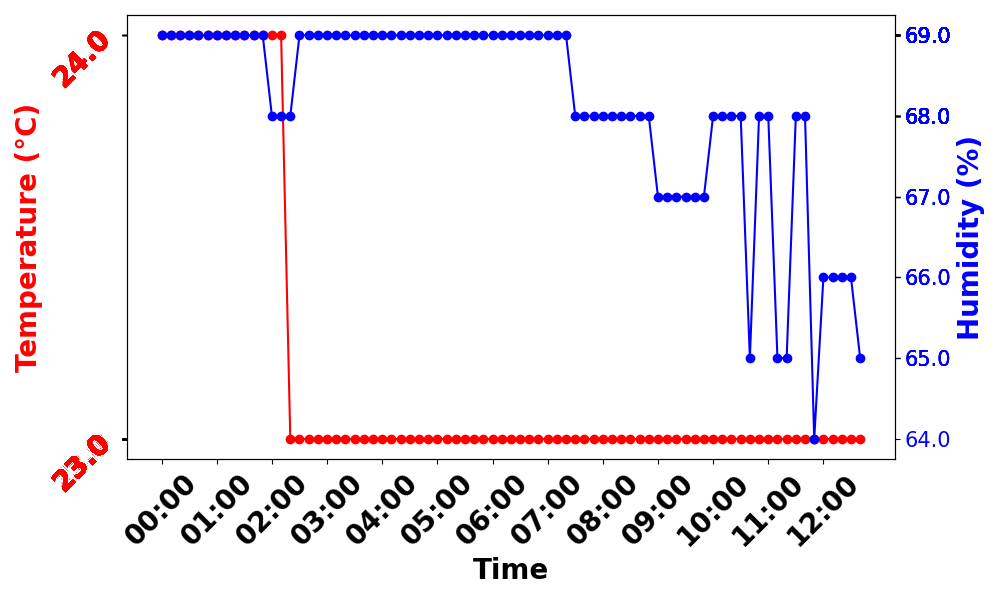
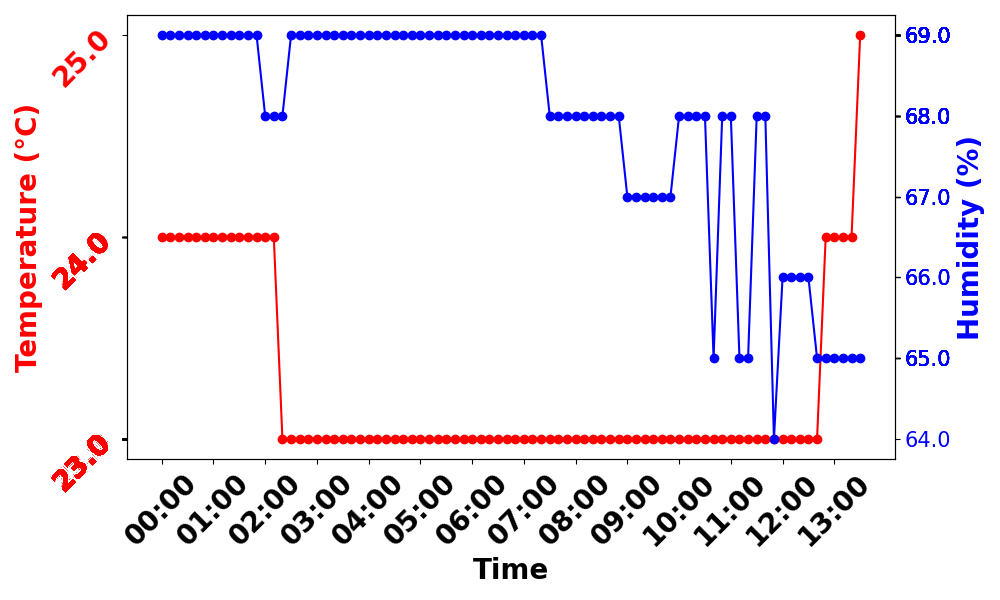
.

diff --git a/final_player/code/dashboard.py b/final_player/code/dashboard.py
@@ -275,6 +275,10 @@ class DashBoard:
                         self.have_to_vent = 'on'
                         self.timer.activate()
 
+            # if self.player.pos_layer == 'buan_api':
+            #     if self.index >= 2:
+            #         self.index = 2
+
             if self.index == 1 or self.index == 2:
                 if key_1 and self.date_index > -len(self.options_dates):
                     self.date_index += -1
@@ -449,7 +453,7 @@ class DashBoard:
         self.data_208_height = 0
 
         for item in self.options_208_data:
-            text_surf = self.font.render(str(item), False, 'black')
+            text_surf = self.font.render(f'{item}', False, 'black')
             self.data_208_surf.append(text_surf)
             self.data_208_height = text_surf.get_height() + 2*self.space
         self.total_height += self.data_height
@@ -514,23 +518,23 @@ class DashBoard:
 
             elif self.index == 1:
                 # 온습도 그래프 표시
-
-                title_text = 'Temperature and Humidity over Time'
-                title_surf = self.font.render(title_text, False, 'black')
-
-                top = self.bg_rect.top + self.space * 4
-                left = self.bg_rect.left + self.bg_rect.width / 2 - title_surf.get_width() / 2
-
-                self.display_surface.blit(title_surf, (left, top))
-
-                # 2페이지 구성 - 그래프 이미지
-                img = pygame.image.load('../graphics/aws_temp_hum.png')
-                img = pygame.transform.scale(img, (700, 0.6 * 700))
-
-                top_img = self.bg_rect.top + self.space * 4 + title_surf.get_height()
-                left_img = self.bg_rect.left + self.bg_rect.width / 2 - img.get_width() / 2
-
-                self.display_surface.blit(img, (left_img, top_img))
+                pass
+                # title_text = 'Temperature and Humidity over Time'
+                # title_surf = self.font.render(title_text, False, 'black')
+                #
+                # top = self.bg_rect.top + self.space * 4
+                # left = self.bg_rect.left + self.bg_rect.width / 2 - title_surf.get_width() / 2
+                #
+                # self.display_surface.blit(title_surf, (left, top))
+                #
+                # # 2페이지 구성 - 그래프 이미지
+                # img = pygame.image.load('../graphics/aws_temp_hum.png')
+                # img = pygame.transform.scale(img, (700, 0.6 * 700))
+                #
+                # top_img = self.bg_rect.top + self.space * 4 + title_surf.get_height()
+                # left_img = self.bg_rect.left + self.bg_rect.width / 2 - img.get_width() / 2
+                #
+                # self.display_surface.blit(img, (left_img, top_img))
             elif self.index == 2:
                 # 광 그래프 표시
                 self.mini_chamber_graph = False
@@ -725,7 +729,7 @@ class DashBoard:
                 # 2페이지 구성
                 # 2페이지 구성 - 제목
                 text_surf = 'Per-plot soil moisture'
-                title_surf = self.font.render(text_surf, False, 'black')
+                title_surf = self.font.render(f'{text_surf}kPa', False, 'black')
 
                 left = (self.bg_rect.left + self.bg_rect.width/2) - title_surf.get_width()/2
                 top = self.bg_rect.top + self.space * 4
@@ -754,18 +758,6 @@ class DashBoard:
 
                     self.show_field_text(field_surf, left, top)
                     self.show_field_text(data_surf, left, top_data)
-
-
-
-            elif self.index == 2:
-                pass
-                # date_surf = self.date_surf[self.date_index]
-                # top = self.bg_rect.top + self.space*4
-                # self.show_entry_date(date_surf, top)
-
-                # self.chamber_lux = f'..\graphics\chamber_graph\chamber_lux.png'
-                # top = self.bg_rect.top + self.space*4 + self.date_rect.height + self.space
-                # self.show_entry_img(self.chamber_lux, top)
 
         if self.player.pos_layer == 'aws_lab':
             if self.index == 0:
@@ -833,44 +825,37 @@ class DashBoard:
             elif self.index == 1:
                 # 2페이지 구성
                 # 2페이지 구성 - 제목
-                pass
-                # text_surf = 'Per-plot soil moisture'
-                # title_surf = self.font.render(text_surf, False, 'black')
-                #
-                # left = (self.bg_rect.left + self.bg_rect.width / 2) - title_surf.get_width() / 2
-                # top = self.bg_rect.top + self.space * 4
-                #
-                # self.show_field_text(title_surf, left, top)
-                #
-                # # 2페이지 구성 - 필지 텍스트 & 토양수분 데이터
-                # for i in range(1, 9):  # 1, 2, 3, 4
-                #     text_surf = f'Field {i}'
-                #     field_surf = self.font.render(text_surf, False, 'brown')
-                #     text_surf_data = self.get_buan_soilmoisture_data[text_surf]
-                #     data_surf = self.font.render(text_surf_data, False, 'black')
-                #
-                #     if i <= 4:
-                #         top = self.bg_rect.top + self.space * 4 + title_surf.get_height() + self.space * 2
-                #         left = self.bg_rect.left + (i - 1) * (self.bg_rect.width / 4)
-                #
-                #         top_data = self.bg_rect.top + self.space * 4 + title_surf.get_height() + self.space * 2 + field_surf.get_height() + self.space * 2
-                #     else:
-                #         top = self.bg_rect.top + self.space * 4 + title_surf.get_height() + self.space * 2 + (
-                #                 self.bg_rect.height - title_surf.get_height()) / 2
-                #         left = self.bg_rect.left + ((i - 4) - 1) * (self.bg_rect.width / 4)
-                #
-                #         top_data = self.bg_rect.top + self.space * 4 + title_surf.get_height() + self.space * 2 + (
-                #                 self.bg_rect.height - title_surf.get_height()) / 2 + field_surf.get_height() + self.space * 2
-                #
-                #     self.show_field_text(field_surf, left, top)
-                #     self.show_field_text(data_surf, left, top_data)
+                title_text = 'Temperature and Humidity over Time'
+                title_surf = self.font.render(title_text, False, 'black')
+
+                top = self.bg_rect.top + self.space * 4
+                left = self.bg_rect.left + self.bg_rect.width / 2 - title_surf.get_width() / 2
+
+                self.display_surface.blit(title_surf, (left, top))
+
+                # 2페이지 구성 - 그래프 이미지
+                img = pygame.image.load('../graphics/aws_temp_hum.png')
+                img = pygame.transform.scale(img, (700, 0.6 * 700))
+
+                top_img = self.bg_rect.top + self.space * 4 + title_surf.get_height()
+                left_img = self.bg_rect.left + self.bg_rect.width / 2 - img.get_width() / 2
+
+                self.display_surface.blit(img, (left_img, top_img))
 
             elif self.index == 2:
-                pass
-                # date_surf = self.date_surf[self.date_index]
-                # top = self.bg_rect.top + self.space*4
-                # self.show_entry_date(date_surf, top)
+                title_text = 'Lux over Time'
+                title_surf = self.font.render(title_text, False, 'black')
 
-                # self.chamber_lux = f'..\graphics\chamber_graph\chamber_lux.png'
-                # top = self.bg_rect.top + self.space*4 + self.date_rect.height + self.space
-                # self.show_entry_img(self.chamber_lux, top)
+                top = self.bg_rect.top + self.space * 4
+                left = self.bg_rect.left + self.bg_rect.width / 2 - title_surf.get_width() / 2
+
+                self.display_surface.blit(title_surf, (left, top))
+
+                # 2페이지 구성 - 그래프 이미지
+                img = pygame.image.load('../graphics/aws_lux.png')
+                img = pygame.transform.scale(img, (700, 0.6 * 700))
+
+                top_img = self.bg_rect.top + self.space * 4 + title_surf.get_height()
+                left_img = self.bg_rect.left + self.bg_rect.width / 2 - img.get_width() / 2
+
+                self.display_surface.blit(img, (left_img, top_img))

diff --git a/final_player/code/realtime_data.py b/final_player/code/realtime_data.py
@@ -60,7 +60,7 @@ class Get_data:
             output['day_hum'] = realtime_lab['humidity']
 
             # return output
-            return [output['day_temp'], output['day_hum'], '--']
+            return [f"{output['day_temp']}°C", f"{output['day_hum']}%", '--']
 
 
     def get_grh_heyhome(self):
@@ -226,7 +226,7 @@ class Get_data:
             output['day_hum'] = realtime_lab['humidity']
 
             # return output
-            return [output['day_temp'], output['day_hum'], '--']
+            return [f"{output['day_temp']}°C", f"{output['day_hum']}%", '--']
         
     # 헤이홈 온실 데이터 정리 (화면에 표시되는 형식으로)
     def gh_display(self,dt):
@@ -534,22 +534,16 @@ class Get_data:
         # 첫 번째 Y축 (온도)
         ax1.plot(df['time'], df['lux'], color='green', marker='o', label='Lux')
         ax1.set_xlabel('time', fontweight='bold', fontsize=20)
-        ax1.set_ylabel('Temperature (°C)', color='red', fontweight='bold', fontsize=20)
-        ax1.tick_params(axis='y', labelcolor='red')
+        ax1.set_ylabel('Lux (°C)', color='green', fontweight='bold', fontsize=20)
+        ax1.tick_params(axis='y', labelcolor='green')
 
         ax1.set_xticks(df['time'][::6])
-        ax1.set_yticks(np.arange(-15, 51, 10))
+        # ax1.set_yticks(np.arange(-15, 51, 10))
 
         ax1.set_xticklabels(df['time'][::6], fontweight='bold', fontsize=15)  # X축 레이블 회전
 
-        # 두 번째 Y축 (습도)
-        ax2 = ax1.twinx()  # 두 번째 Y축 추가
-        ax2.plot(df['time'], df['hum'], color='blue', marker='o', label='Humidity (%)')
-        ax2.set_ylabel('Humidity (%)', color='blue', fontweight='bold', fontsize=20)
-
-        ax2.set_yticks(np.arange(0, 101, 10))
-
-        ax2.tick_params(axis='y', labelcolor='blue')
+        fig.tight_layout()
+        plt.savefig('../graphics/aws_lux.png')
 
         return df
 
